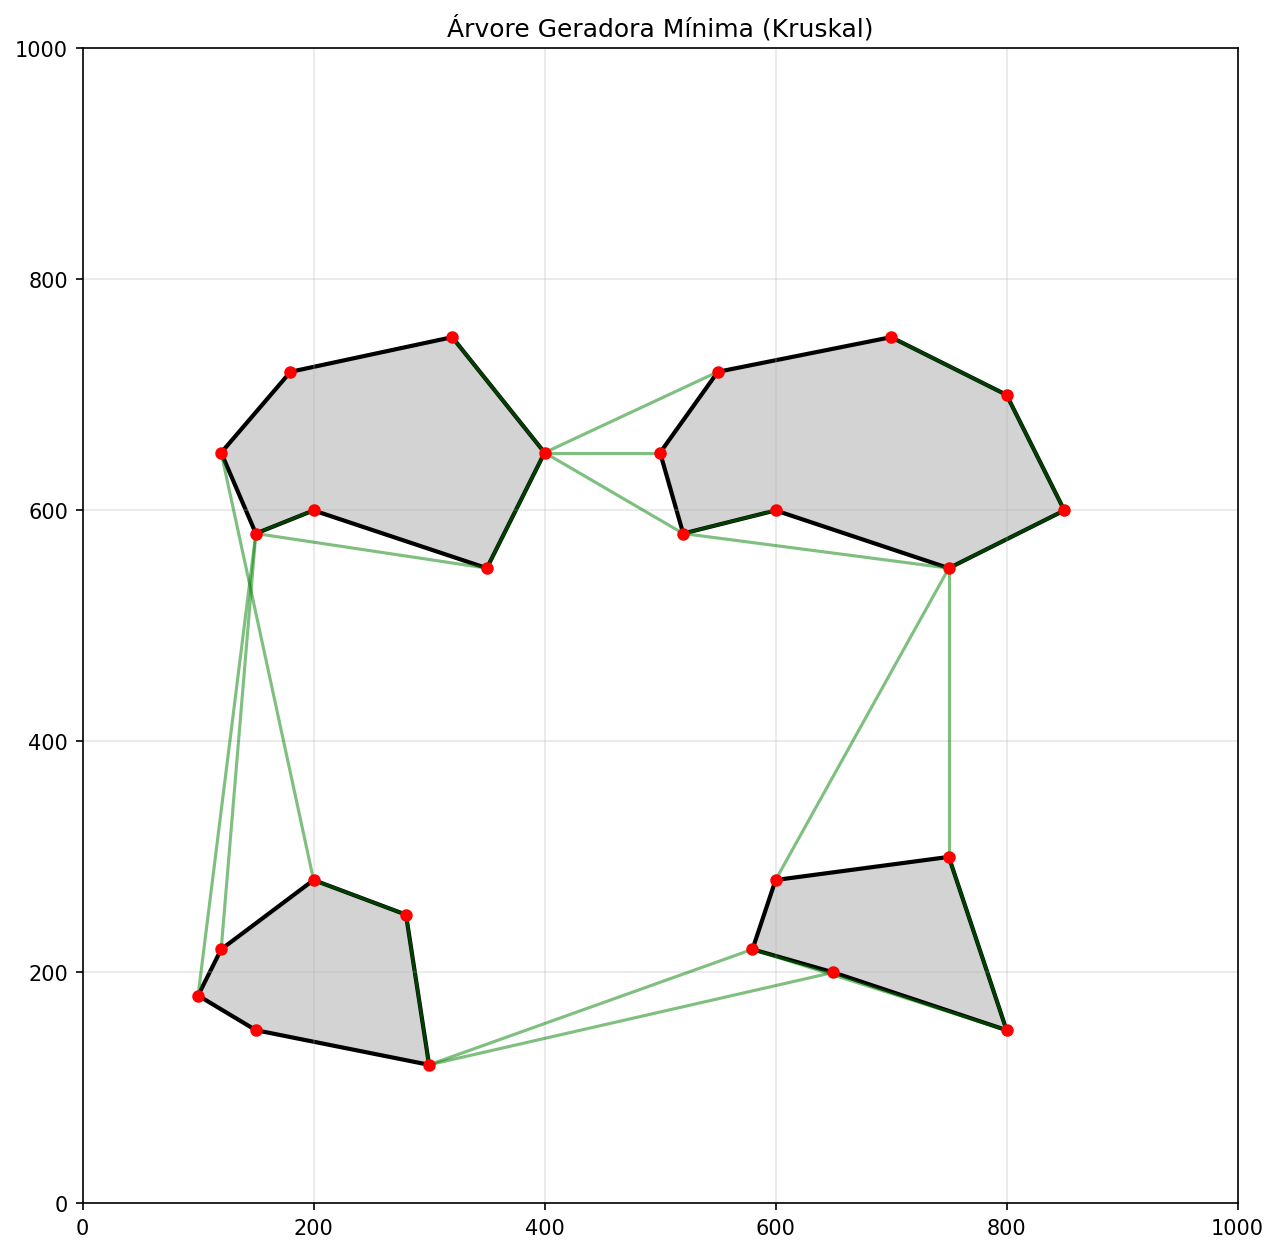
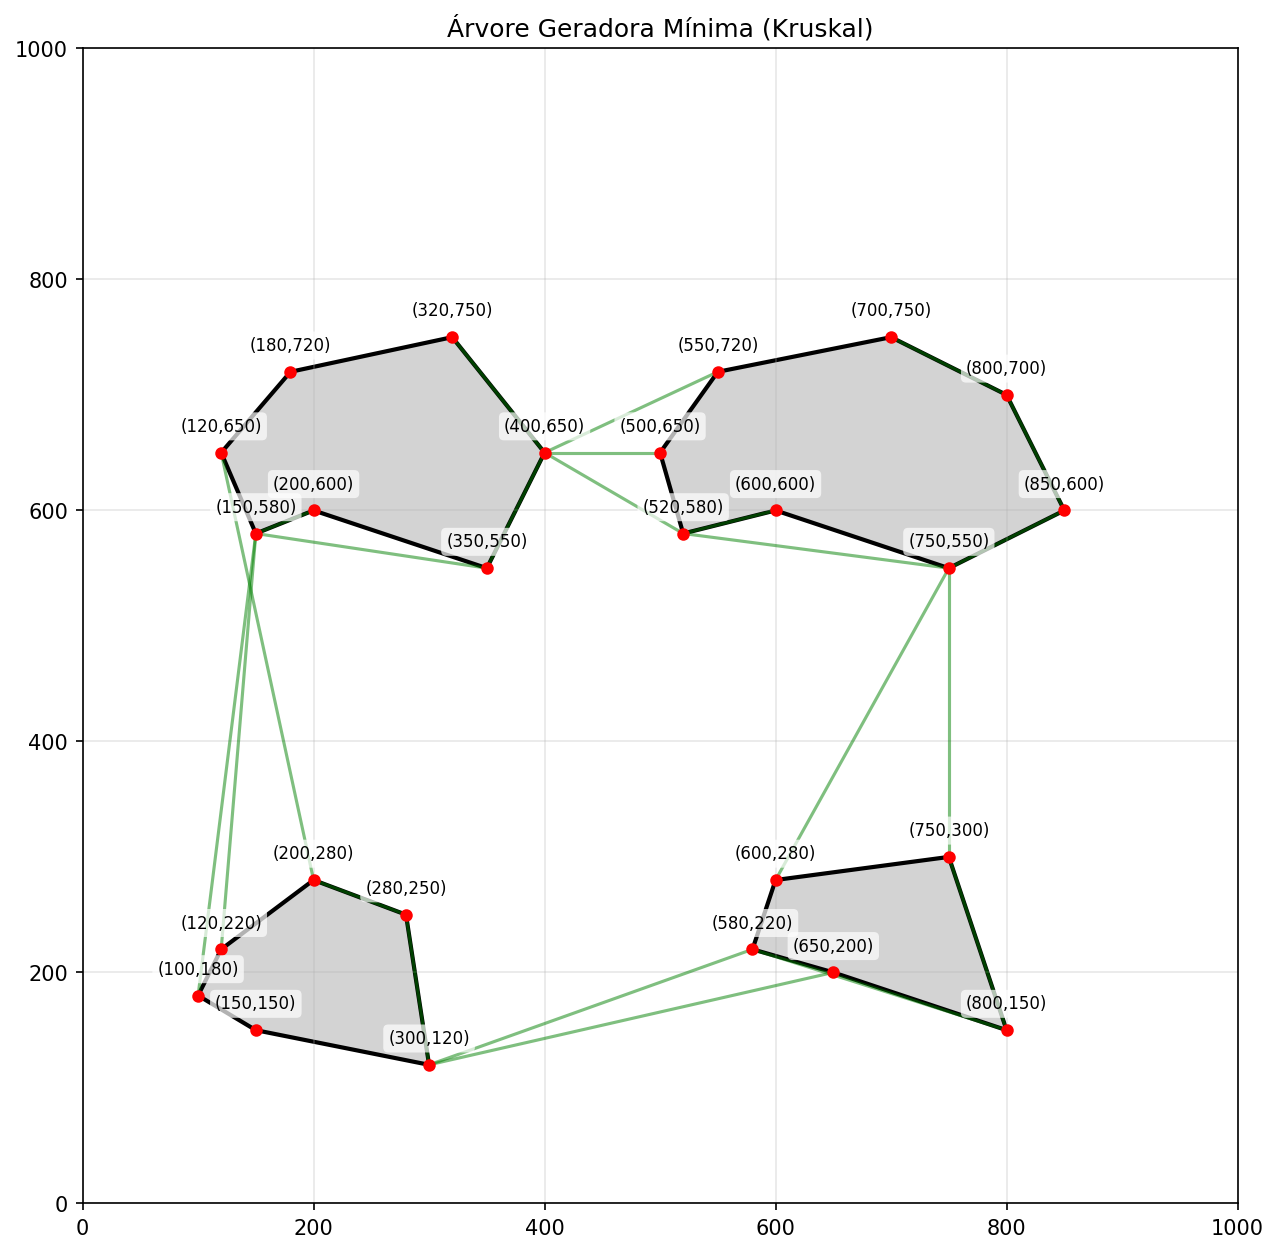
cria função para calcular o próximo vértice e atualizar função de plotar os grafos, agora mostrando quais são as coordenadas dos vértices

diff --git a/leituraMapa/verticeProximo.py b/leituraMapa/verticeProximo.py
@@ -1,0 +1,78 @@
+import math
+
+def load_tree_from_file(input_file):
+    mst = {}
+    
+    with open(input_file, 'r', encoding='utf-8') as f:
+        for line in f:
+            line = line.strip()
+            if not line or line.startswith('#'):
+                continue
+            
+            try:
+                vertice_str, conexoes_str = line.split(': [')
+                conexoes_str = conexoes_str.rstrip(']')
+                vertice = eval(vertice_str)
+                
+                conexoes = []
+                if conexoes_str:
+                    partes = conexoes_str.split('), (')
+                    for parte in partes:
+                        parte = parte.strip('()').strip()
+                        if parte:
+                            coords_peso = parte.split(', ')
+                            if len(coords_peso) >= 3:
+                                x = float(coords_peso[0])
+                                y = float(coords_peso[1])
+                                peso = float(coords_peso[2])
+                                conexoes.append(((x, y), peso))
+                
+                mst[vertice] = conexoes
+                
+            except Exception as e:
+                continue
+    
+    return mst
+
+def distancia(p1, p2):
+    return math.sqrt((p1[0] - p2[0])**2 + (p1[1] - p2[1])**2)
+
+def vertice_mais_proximo(posicao, arvore):
+    distancia_min = float('inf')
+    vertice_proximo = None
+    
+    for vertice in arvore.keys():
+        dist = distancia(posicao, vertice)
+        
+        if dist < distancia_min:
+            distancia_min = dist
+            vertice_proximo = vertice
+    
+    return vertice_proximo, distancia_min
+
+if __name__ == "__main__":
+    MST_FILE = '../mapa/mst_tree.txt'
+    print("Carregando árvore...")
+    arvore = load_tree_from_file(MST_FILE)
+    print(f"Árvore carregada: {len(arvore)} vértices\n")
+    
+    # Testar com várias posições
+    posicoes_teste = [
+        (100, 100),   # Perto do obstáculo 1
+        (500, 500),   # Centro do mapa
+        (700, 700),   # Perto do obstáculo 4
+        (250, 200),   # Posição aleatória
+    ]
+    
+    print("=" * 60)
+    print("TESTE: Encontrando vértices mais próximos")
+    print("=" * 60)
+    
+    for pos in posicoes_teste:
+        vertice, dist = vertice_mais_proximo(pos, arvore)
+        print(f"\nPosição: {pos}")
+        print(f"Vértice mais próximo: {vertice}")
+        print(f"Distância: {dist:.2f} unidades")
+    
+    print("\n" + "=" * 60)
+    print("✅ Teste concluído!")

diff --git a/leituraMapa/leitura.py b/leituraMapa/leitura.py
@@ -134,9 +134,19 @@ def plot_graph(map_file, graph, vertices, edges_to_draw, output, title, color='b
                        color=color, alpha=0.5, linewidth=1.5)
                 drawn.add(edge)
     
-    # Vértices
+    # Vértices com coordenadas
     for v in vertices:
         ax.plot(v[0], v[1], 'ro', markersize=5)
+        
+        ax.text(v[0], v[1] + 15,
+                f'({v[0]:.0f},{v[1]:.0f})',
+                fontsize=8,
+                ha='center',
+                va='bottom',
+                bbox=dict(boxstyle='round,pad=0.3',
+                         facecolor='white',
+                         edgecolor='none',
+                         alpha=0.7))
     
     ax.set_title(title)
     plt.savefig(output, dpi=150, bbox_inches='tight')
